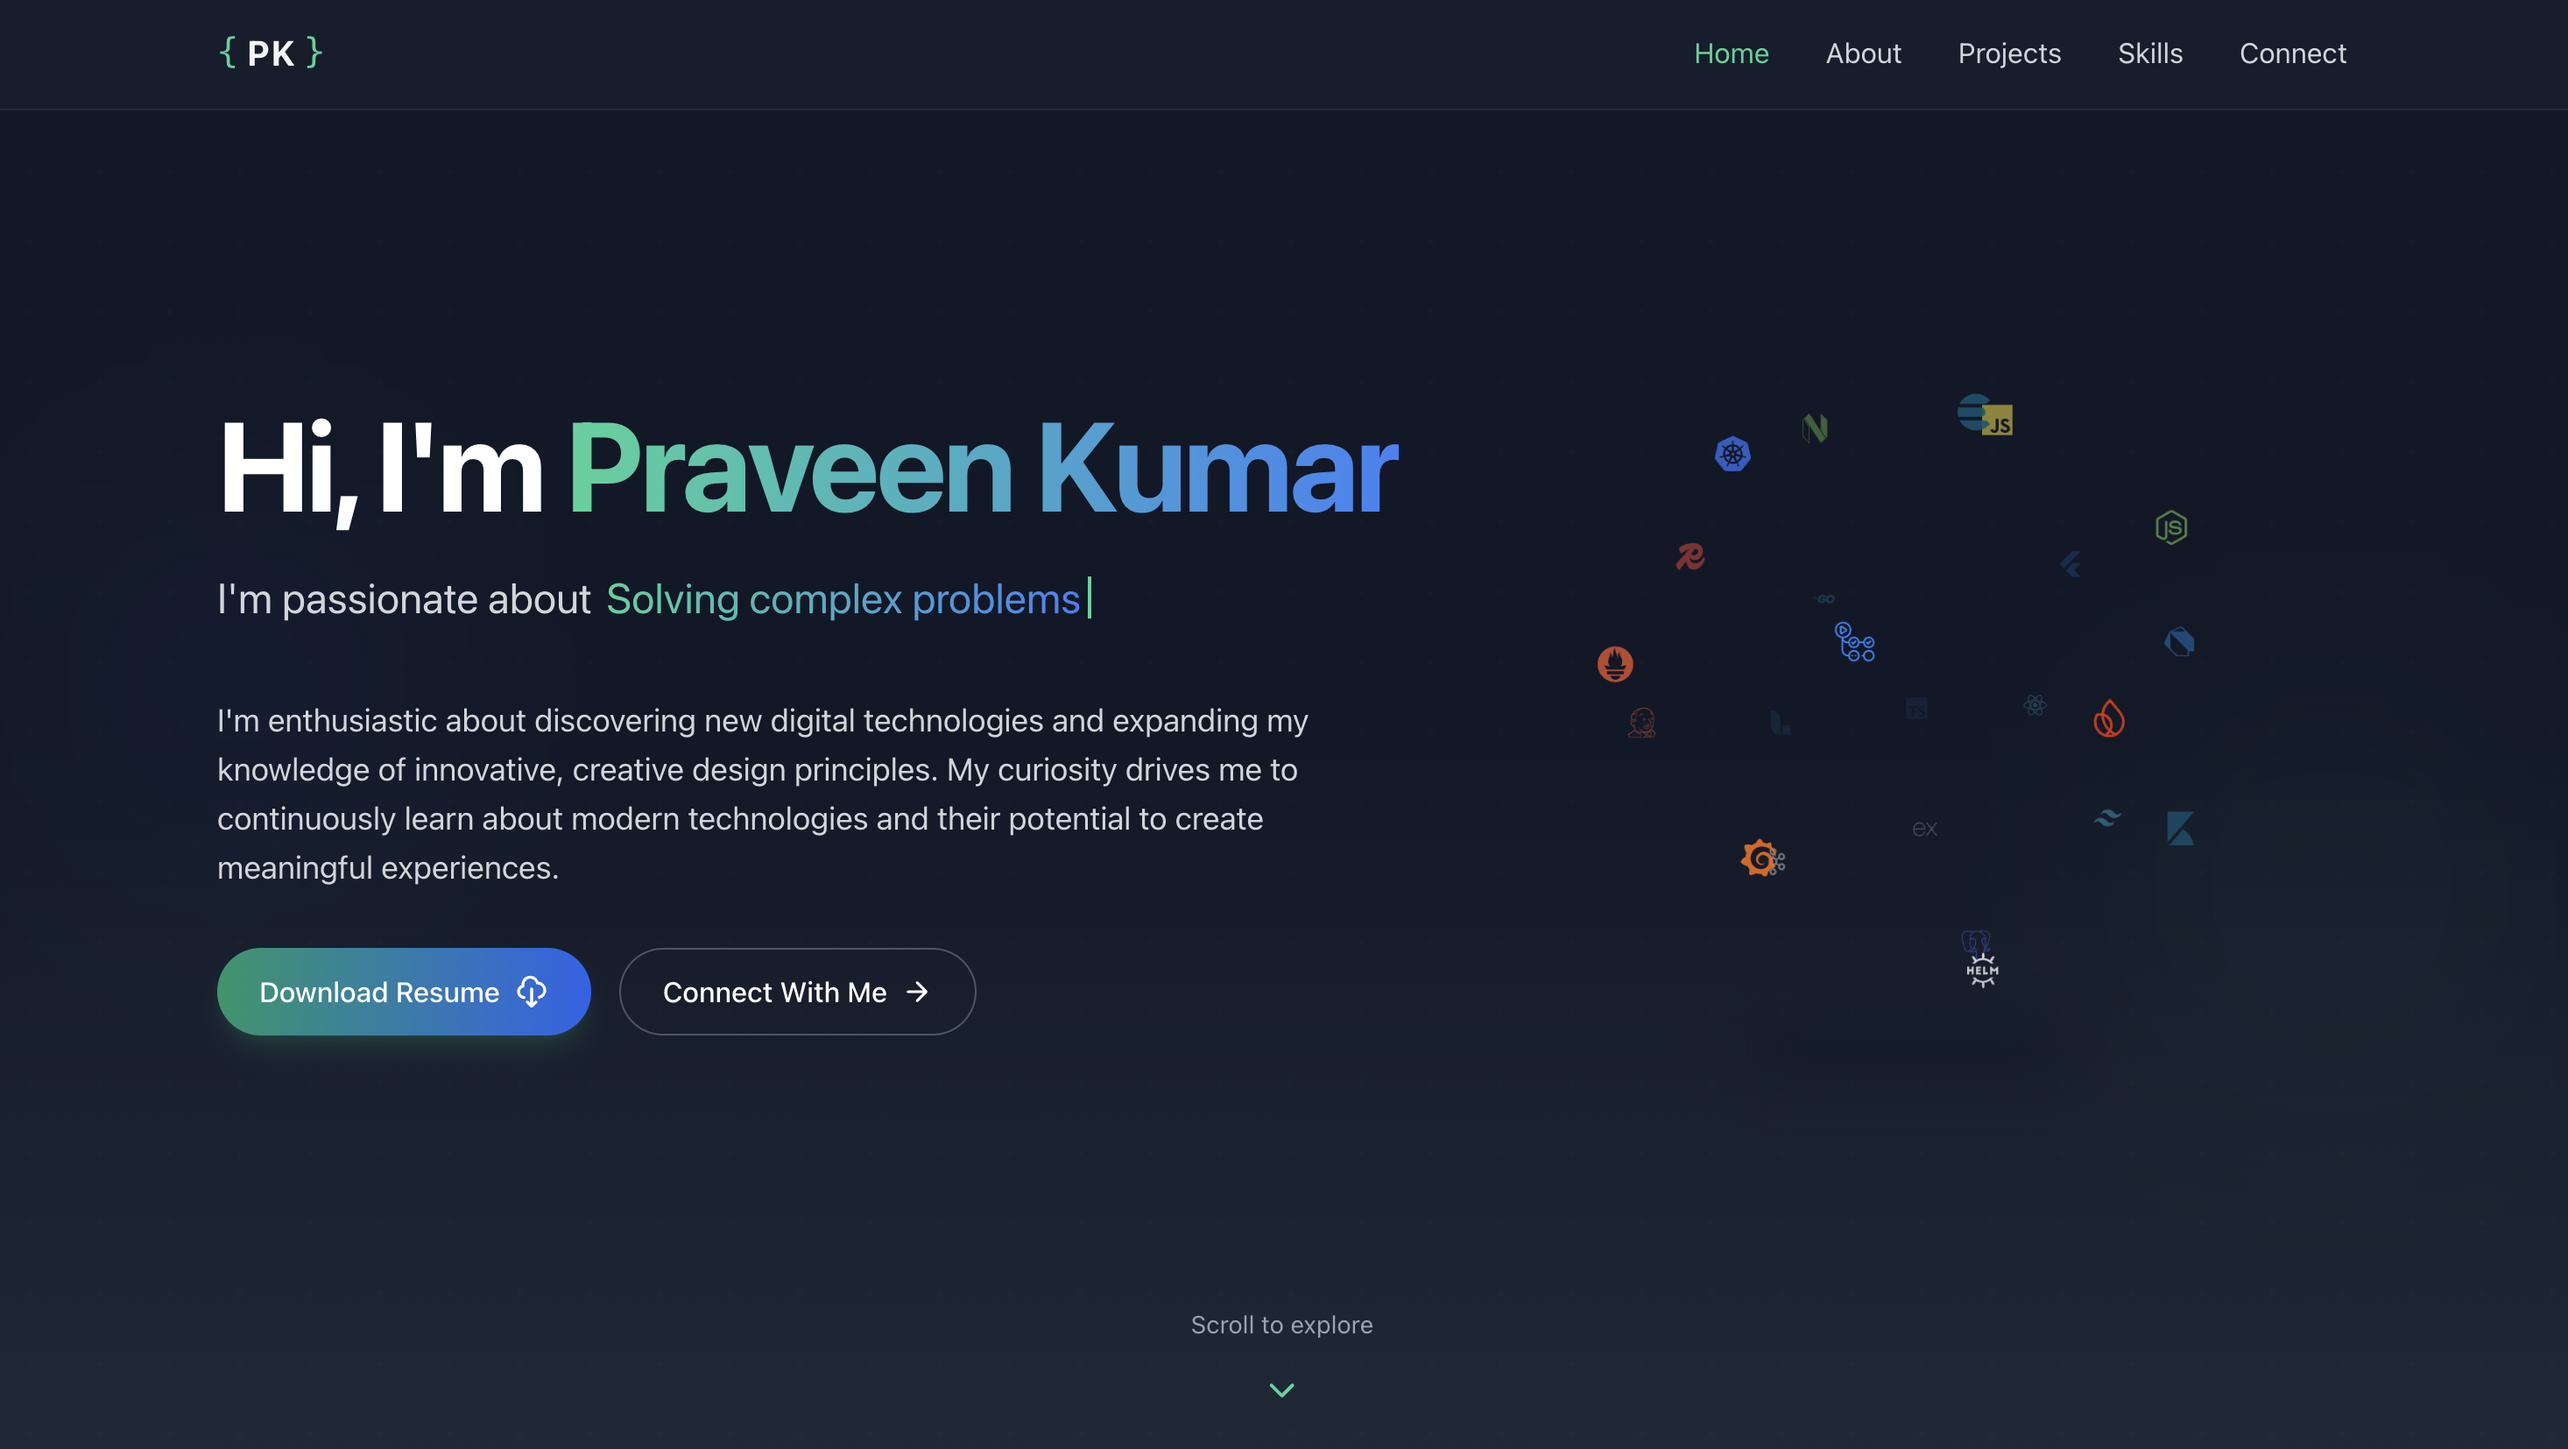
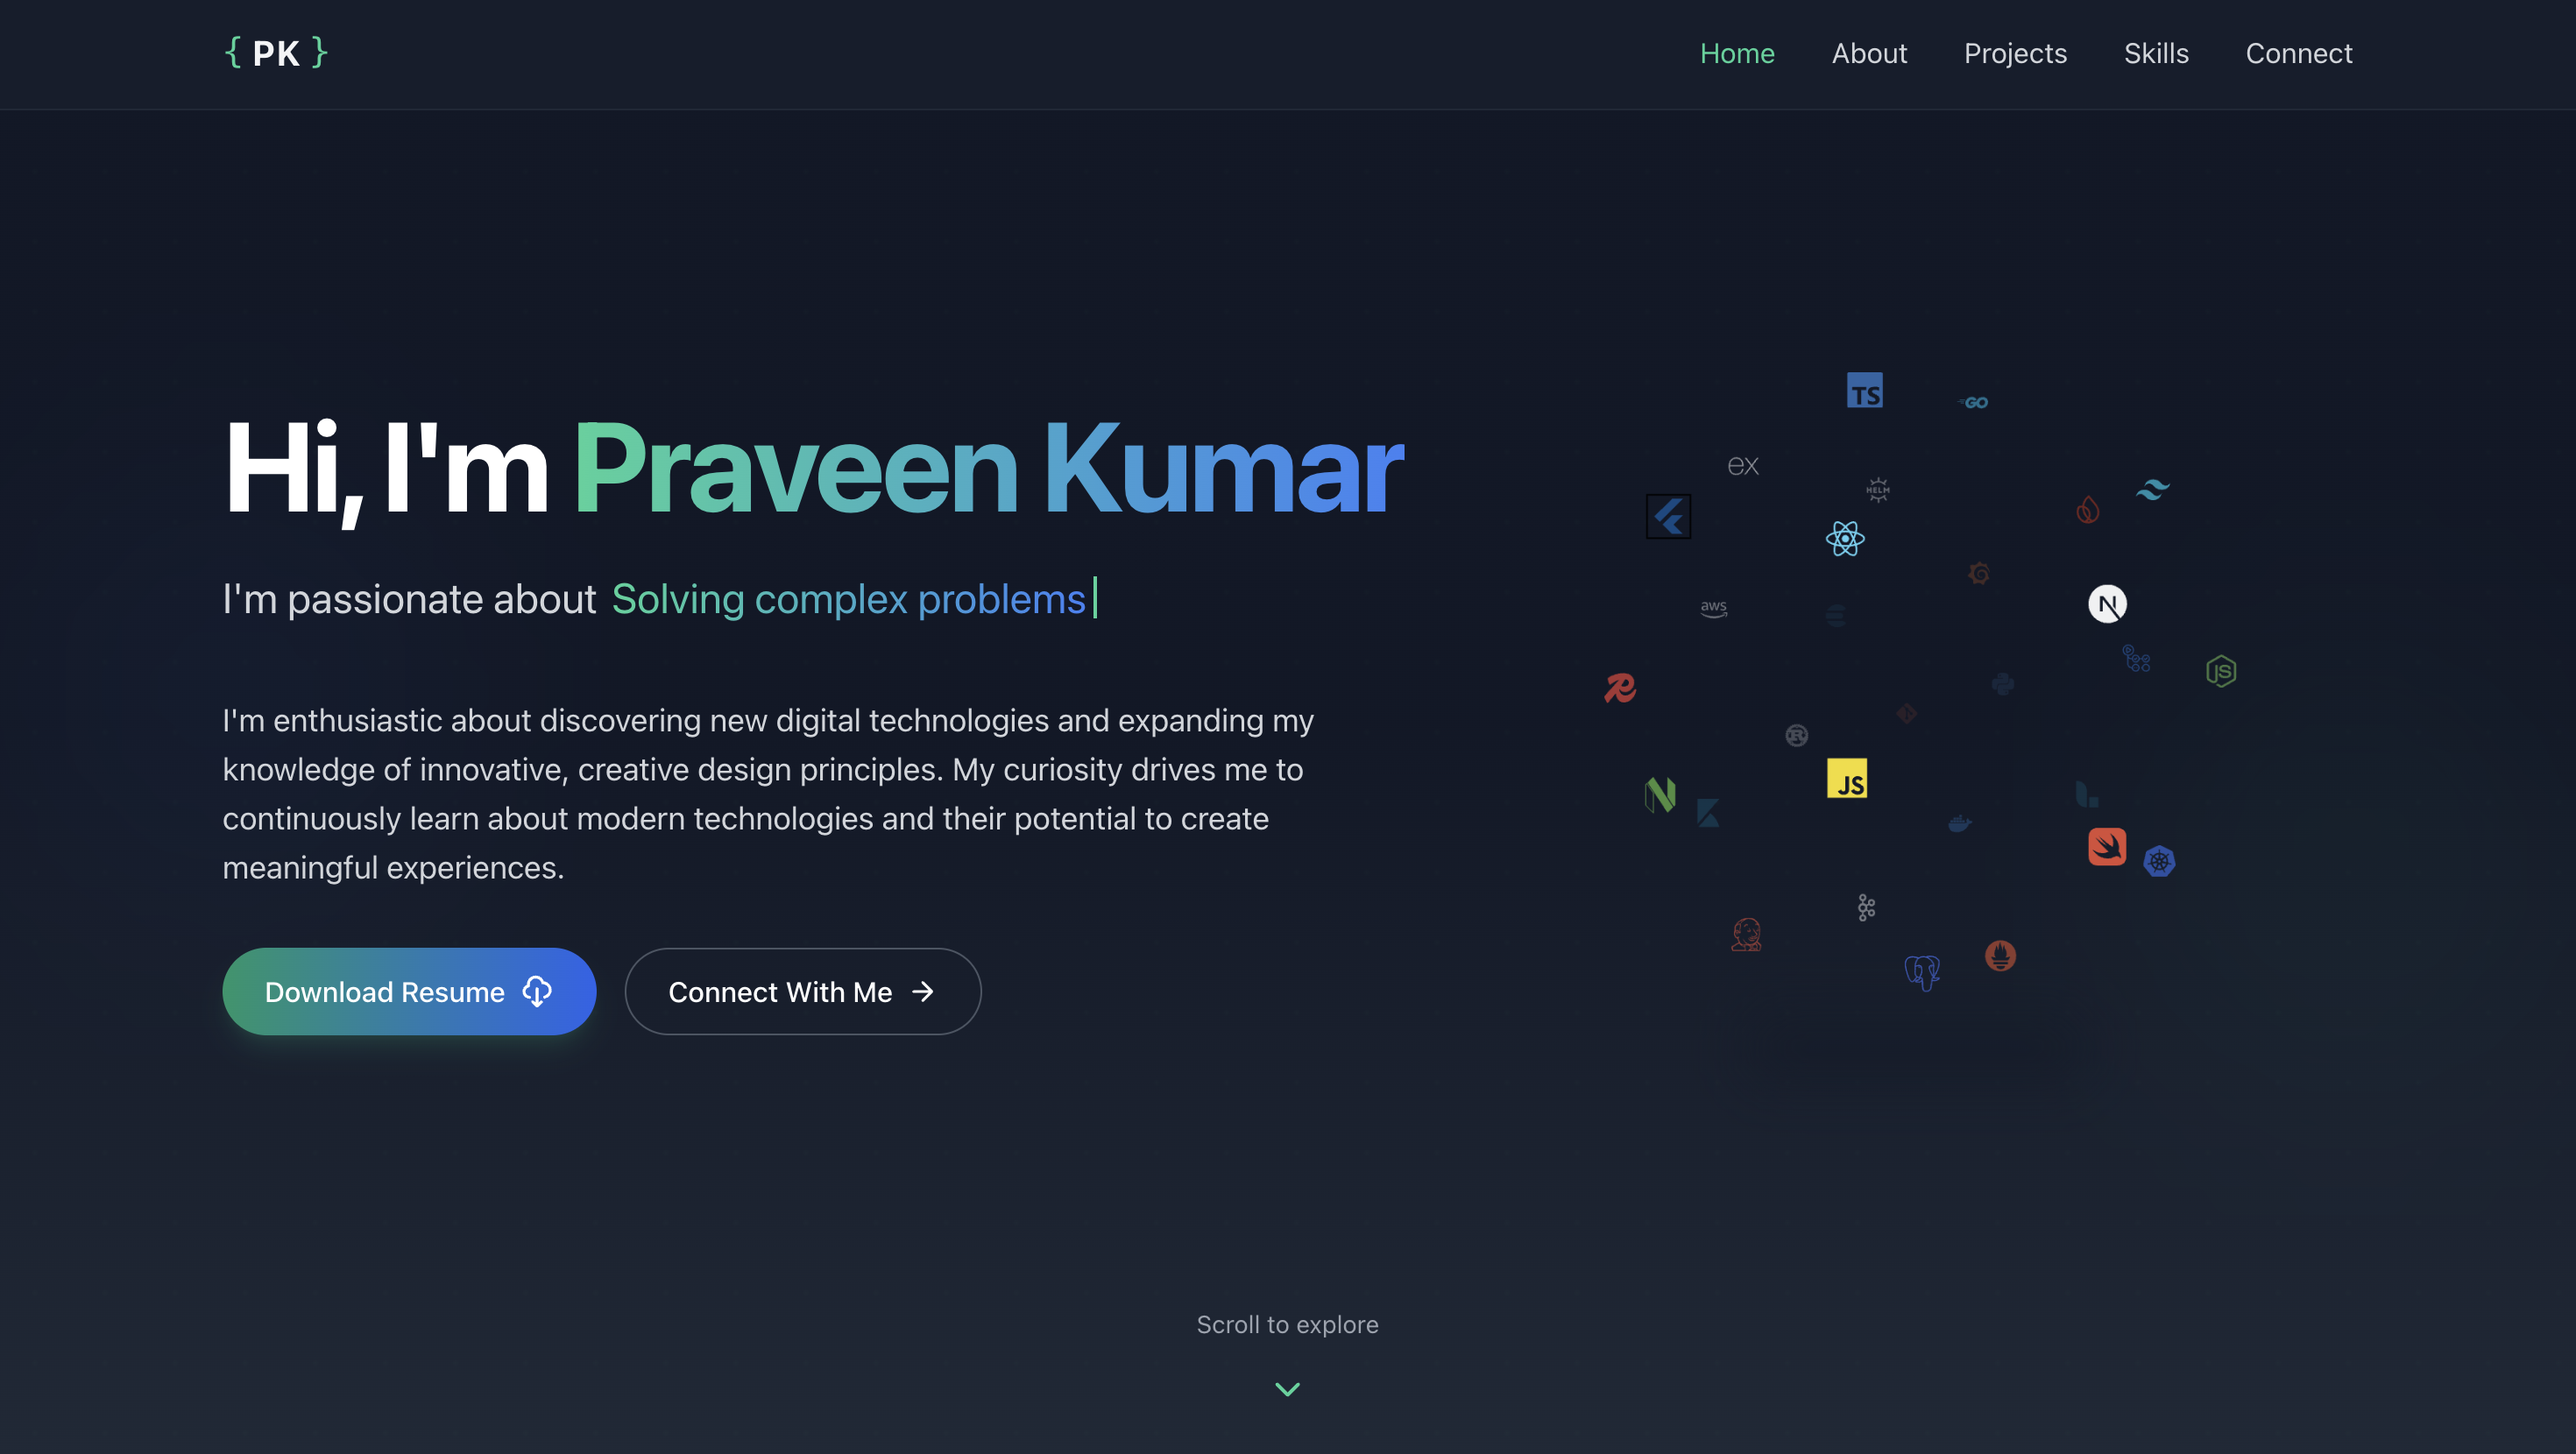
(enhc): updated workflow trigger
1. updated home image
2. added utils to readme

diff --git a/README.md b/README.md
@@ -290,6 +290,7 @@ portfolio/
 │   │   ├── projects.tsx # Projects showcase
 │   │   └── skills.tsx   # Skills display
 │   ├── types/           # TypeScript type definitions
+|   |-- utils/           # Utility functions
 │   ├── globals.css      # Global styles
 │   └── layout.tsx       # Root layout
 └── public/              # Static assets
